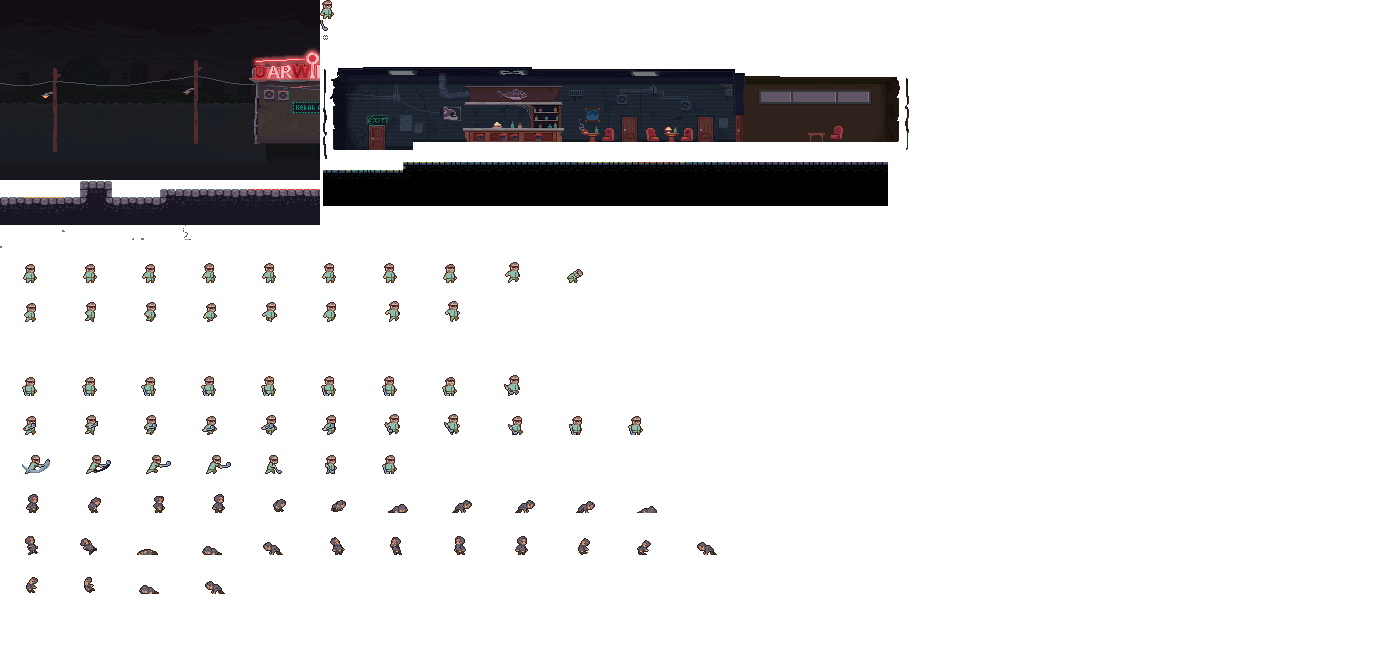
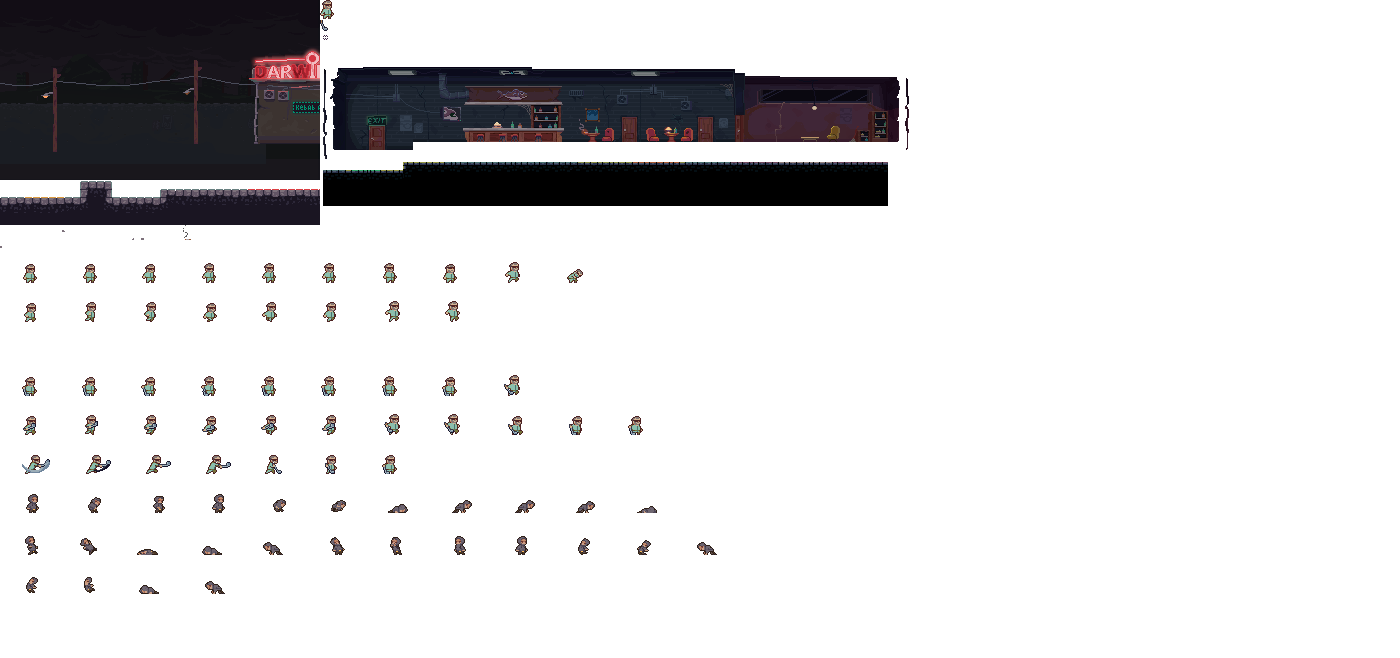
Create restaurant right room

Changed region(s): [[0.5221, 0.1216, 0.645, 0.2128]]

diff --git a/src/level.cpp b/src/level.cpp
@@ -257,6 +257,26 @@ void setupInsideRestaurantScene()
     }
 
     {
+        Entity& rightRoomLight = addEntity();
+        TransformComponent* t = getComponentFromEntity<TransformComponent>(rightRoomLight);
+        SpriteComponent* s = addComponentToEntity<SpriteComponent>(rightRoomLight);
+        s->setupSpriteForLayer(ROUND_LOW_QUALITY_LIGHT_SPRITE, FRONT_LIGHTS_LAYER);
+        s->color = { 215, 218, 143, 46 };
+        t->scale = { 1.25f, 1.25f };
+        t->position = { 463, 85 };
+    }
+
+    {
+        Entity& rightRoomHighlight = addEntity();
+        TransformComponent* t = getComponentFromEntity<TransformComponent>(rightRoomHighlight);
+        SpriteComponent* s = addComponentToEntity<SpriteComponent>(rightRoomHighlight);
+        s->setupSpriteForLayer(ROUND_LOW_QUALITY_LIGHT_SPRITE, FRONT_LIGHTS_LAYER);
+        s->color = { 253, 204, 106, 40 };
+        t->scale = { 0.25f, 0.25f };
+        t->position = { 495 + 2, 100 + 3 };
+    }
+
+    {
         Entity& floor = addEntity();
         TransformComponent* t = getComponentFromEntity<TransformComponent>(floor);
         SpriteComponent* s = addComponentToEntity<SpriteComponent>(floor);
